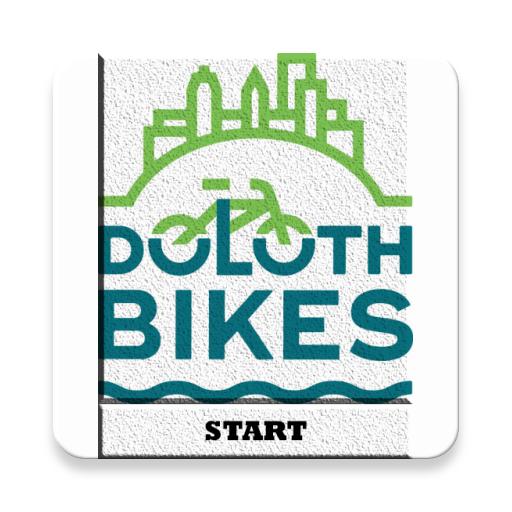
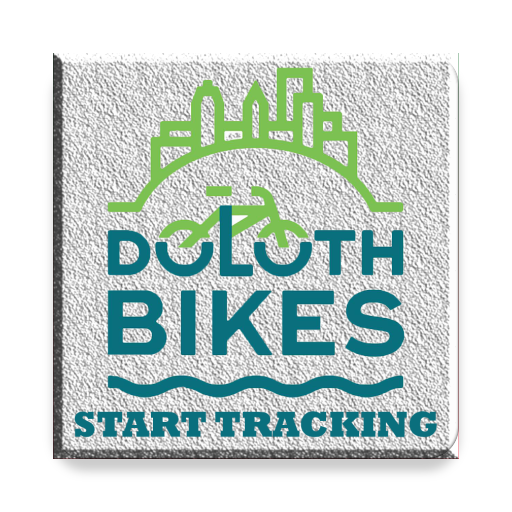
late night ui work

diff --git a/android/app/src/main/java/com/example/sam/duluthbikes/MainActivity.java b/android/app/src/main/java/com/example/sam/duluthbikes/MainActivity.java
@@ -13,6 +13,7 @@ import android.widget.LinearLayout;
 import android.widget.RelativeLayout;
 import android.widget.TextView;
 import android.widget.Toast;
+import android.widget.ToggleButton;
 
 import com.google.android.gms.common.api.GoogleApiClient;
 import com.google.android.gms.maps.CameraUpdate;
@@ -46,6 +47,7 @@ public class MainActivity extends FragmentActivity
     private LocationData locationData;
     private MyRidesData ridesData;
     private boolean animate;
+    private ToggleButton pauseToggle;
 
     private RelativeLayout tv;
     private SupportMapFragment mapFragment;
@@ -71,6 +73,33 @@ public class MainActivity extends FragmentActivity
         mPresenter.clickStart();
         animate = true;
 
+        //toggle button initializer
+        addListenerOnToggle();
+
+        //add listener to toggle button
+        pauseToggle.setOnClickListener(
+                new View.OnClickListener() {
+                    @Override
+                    public void onClick(View v) {
+                        if(!pauseToggle.isChecked()){
+                            pauseToggle.setChecked(false);
+                            try {
+                                mMap.setMyLocationEnabled(false);
+                            }catch (SecurityException e){
+                                e.printStackTrace();
+                            }
+                        } else if(pauseToggle.isChecked()){
+                            pauseToggle.setChecked(true);
+                            try{
+                                mMap.setMyLocationEnabled(true);
+                            }catch (SecurityException e){
+                                e.printStackTrace();
+                            }
+                        }
+                    }
+                }
+        );
+
         //Obtain the SupportMapFragment and get notified when the map is ready to be used.
         mapFragment = (SupportMapFragment) getSupportFragmentManager()
                 .findFragmentById(R.id.map);
@@ -80,6 +109,13 @@ public class MainActivity extends FragmentActivity
         tv.setVisibility(View.GONE);
         tvDistance = (TextView) findViewById(R.id.distanceMain);
         tvSpeed = (TextView) findViewById(R.id.speed);
+    }
+
+    private void addListenerOnToggle() {
+        pauseToggle = (ToggleButton)findViewById(R.id.togglePause);
+        pauseToggle.setTextOn("pause");
+        pauseToggle.setTextOff("restart");
+        pauseToggle.setChecked(true);
     }
 
     /**
@@ -146,7 +182,7 @@ public class MainActivity extends FragmentActivity
         LatLng latLng =
                 new LatLng(getLastLocation().getLatitude(),getLastLocation().getLongitude());
         points.add(latLng);
-        if(mMap.isMyLocationEnabled()==false){
+        if(mMap.isMyLocationEnabled()==false&&pauseToggle.isChecked()){
             if(ActivityCompat.checkSelfPermission(this, Manifest.permission.ACCESS_FINE_LOCATION)
                     == PackageManager.PERMISSION_GRANTED){
                 mMap.setMyLocationEnabled(true);
